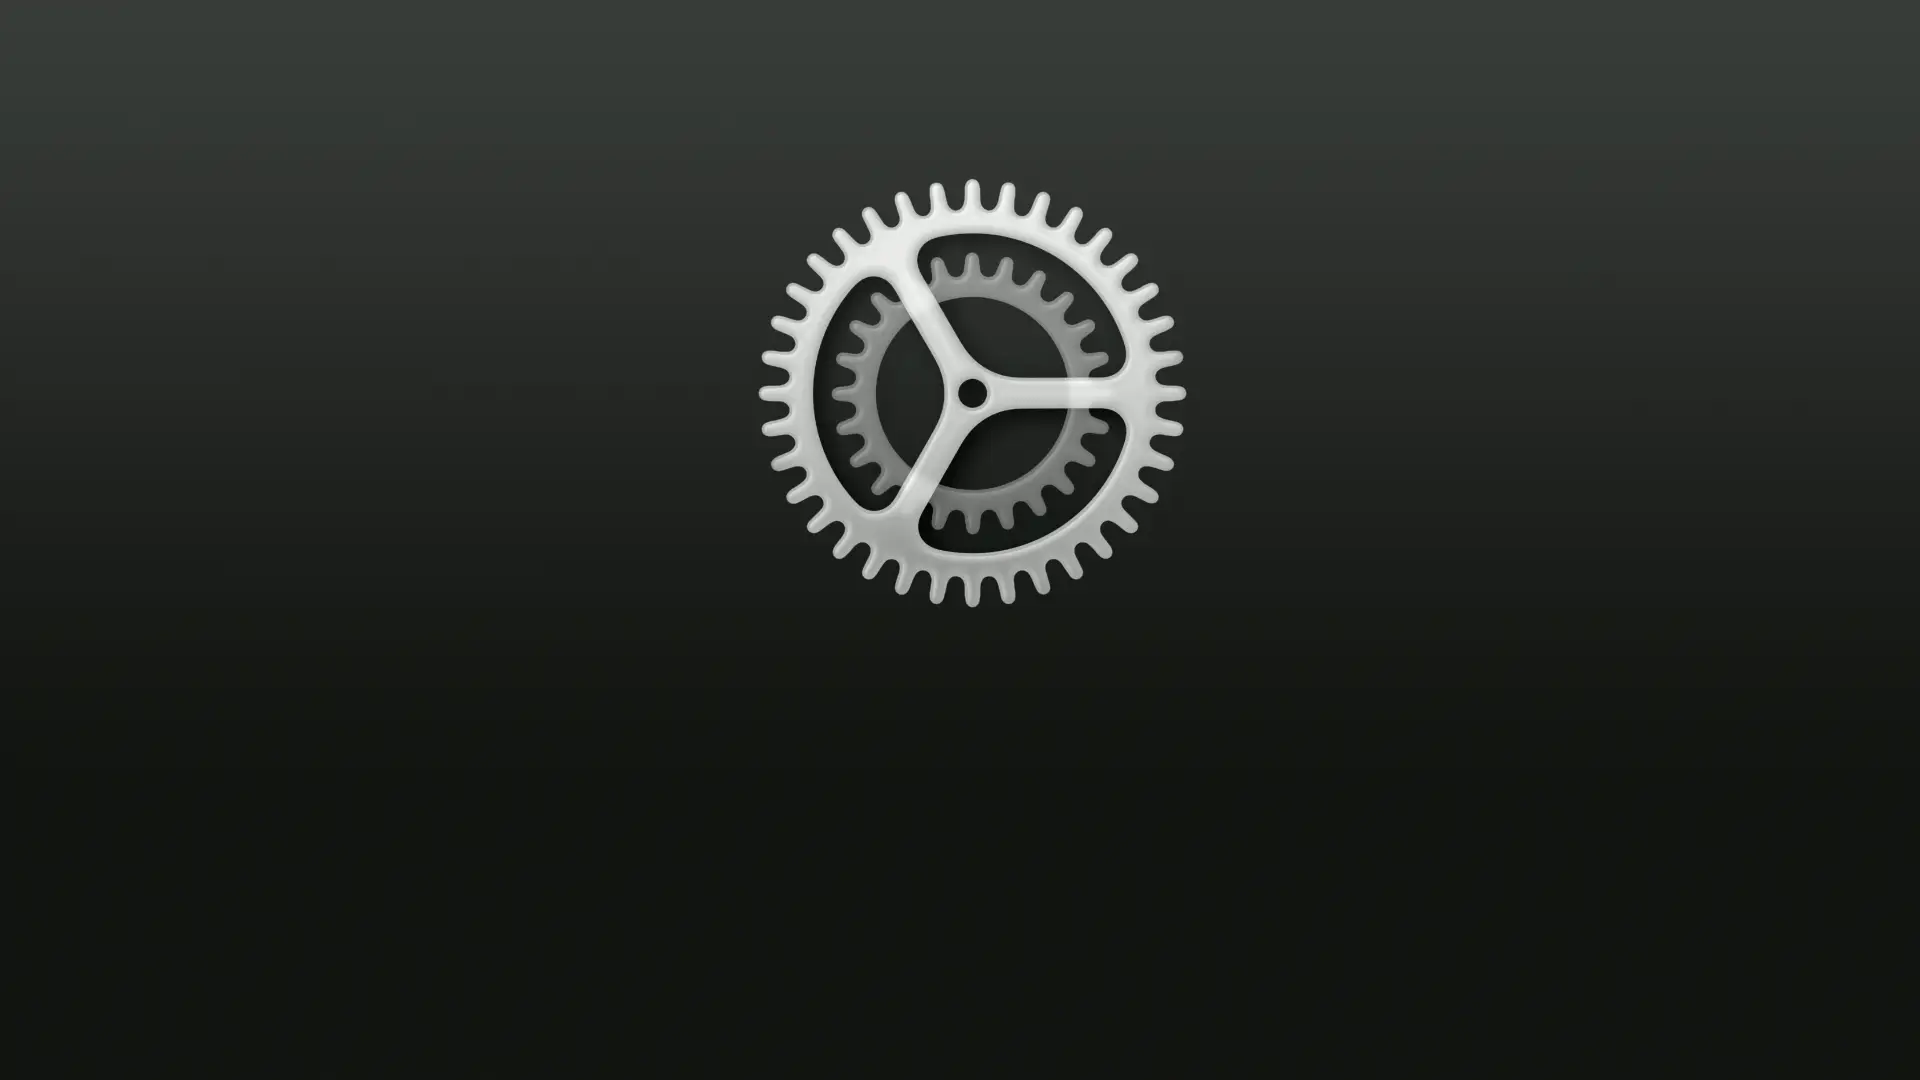
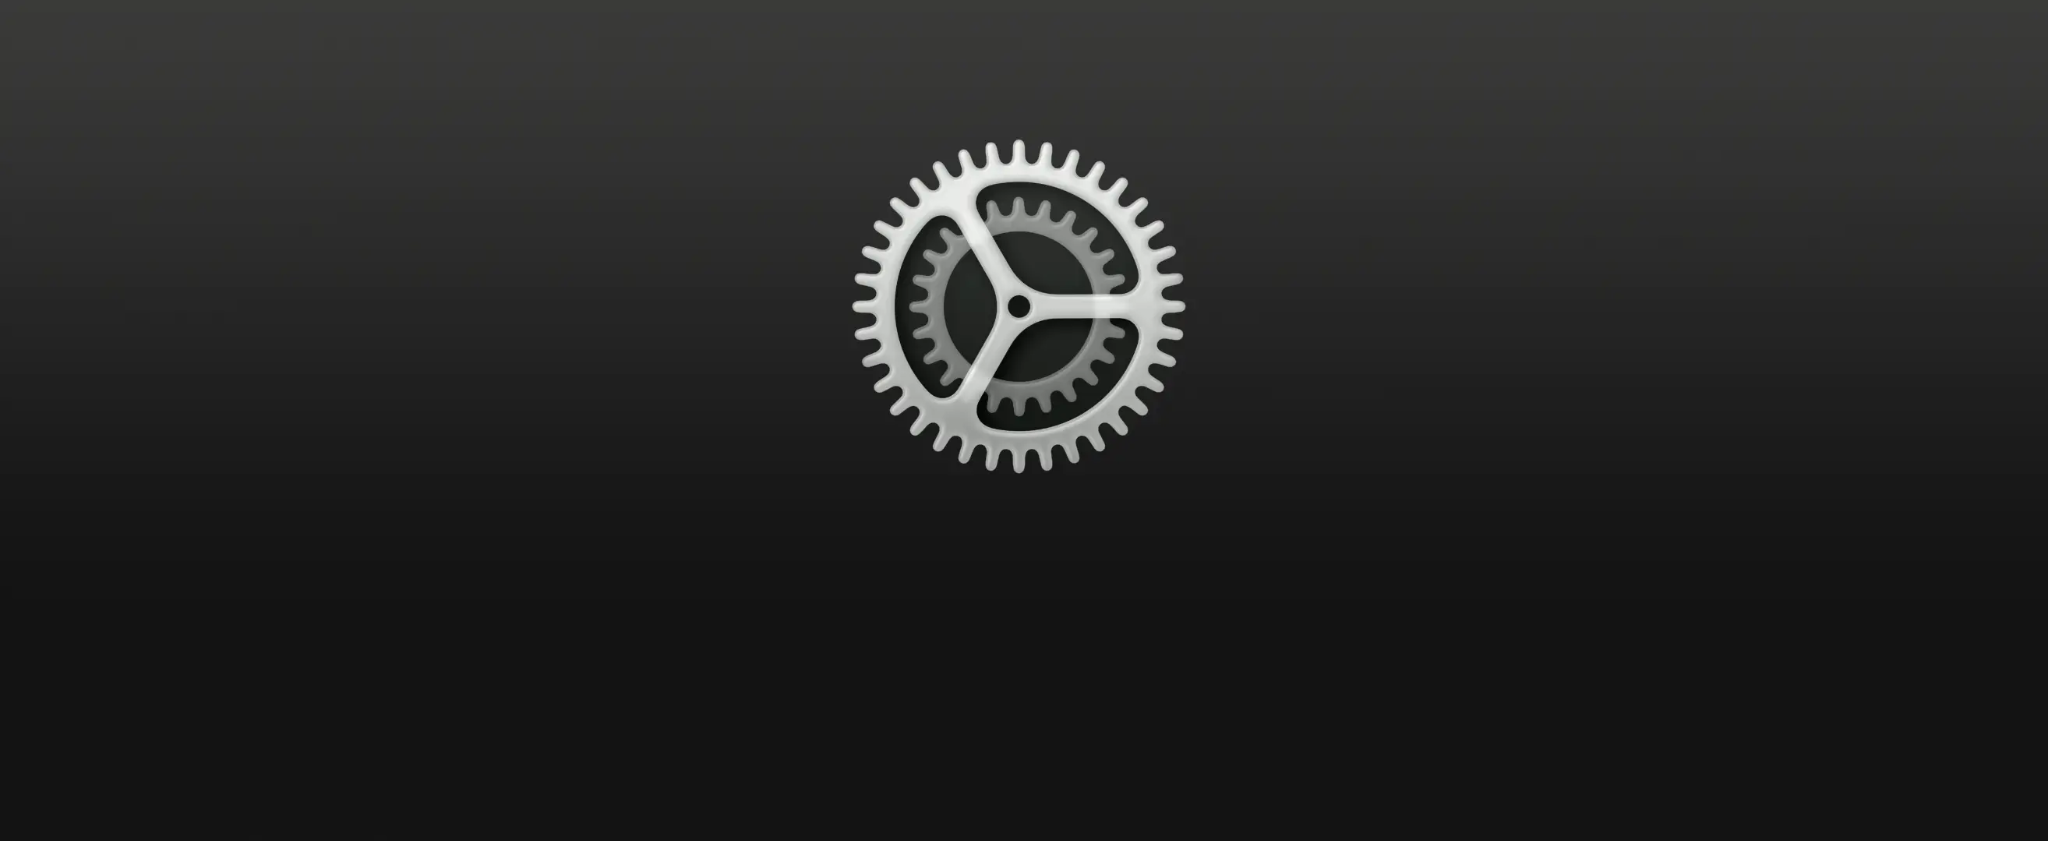
Use panoramic artwork for local Dock backgrounds

Changed region(s): [[0.375, 0.1546, 0.625, 0.5565]]

diff --git a/tests/test_home_renderers.py b/tests/test_home_renderers.py
@@ -28,15 +28,16 @@ public class HomeRenderHarness {
   b.tickNight(3500);near(b.night(),.15625f,"three-quarter transition");check(scene.pairs==pairs,"glass pair reused through transition");
   check(b.tickNight(4000)&&b.night()==0&&!b.tickNight(4001),"day transition settles and stops ticking");
   SystemClock.now=4100;b.show(null);b.tickFade(4900,true);check(scene.glass!=null&&b.profilePixels()==null,"gradient restores neutral glass");
-  Backdrop hero=new Backdrop(30);hero.image=new Bitmap(99);hero.lightImage=null;hero.nightImage=null;
+  Backdrop hero=new Backdrop(30);hero.image=new Bitmap(99);hero.image.width=1920;hero.image.height=1080;hero.lightImage=null;hero.nightImage=null;
   b.show(hero,false);c=new Canvas();b.draw(c,0);check(entries(c,"bitmap").size()==1&&entries(c,"bitmap").get(0).text.equals("99"),"Dock hero uses full photo instead of blurred backdrop");check(!b.tickFade(5000,true),"reduced motion skips photo crossfade");
-  Backdrop moving=new Backdrop(40);moving.image=new Bitmap(100);moving.lightImage=moving.nightImage=null;
+  Backdrop moving=new Backdrop(40);moving.image=new Bitmap(100);moving.image.width=1920;moving.image.height=1080;moving.lightImage=moving.nightImage=null;
   SystemClock.now=6000;b.show(moving,true,1);SystemClock.now=6200;c=new Canvas();b.draw(c,0);Canvas.Entry incoming=entries(c,"bitmap").get(1);float startCenter=(incoming.l+incoming.r)/2;check(startCenter>960&&incoming.l<=0&&incoming.r>=1920&&incoming.t<=0&&incoming.b>=1080,"rightward Dock scroll starts image to the right with all edges covered");
   b.show(moving,true,-1);SystemClock.now=6400;c=new Canvas();b.draw(c,0);incoming=entries(c,"bitmap").get(1);near((incoming.l+incoming.r)/2,976,"incoming photo moves left during original fade, enrichment does not restart it");check((incoming.l+incoming.r)/2<startCenter,"opposing movement approaches center");
-  Backdrop reverse=new Backdrop(50);reverse.image=new Bitmap(101);reverse.lightImage=reverse.nightImage=null;b.show(reverse,true,-1);c=new Canvas();b.draw(c,0);Canvas.Entry outgoing=entries(c,"bitmap").get(0);near((outgoing.l+outgoing.r)/2,976,"interrupted fade preserves outgoing image pose");
+  Backdrop reverse=new Backdrop(50);reverse.image=new Bitmap(101);reverse.image.width=1920;reverse.image.height=1080;reverse.lightImage=reverse.nightImage=null;b.show(reverse,true,-1);c=new Canvas();b.draw(c,0);Canvas.Entry outgoing=entries(c,"bitmap").get(0);near((outgoing.l+outgoing.r)/2,976,"interrupted fade preserves outgoing image pose");
   SystemClock.now=6600;c=new Canvas();b.draw(c,0);incoming=entries(c,"bitmap").get(1);check((incoming.l+incoming.r)/2<960&&incoming.l<=0&&incoming.r>=1920,"reverse Dock scroll starts image to the left without exposed edges");SystemClock.now=6800;c=new Canvas();b.draw(c,0);incoming=entries(c,"bitmap").get(1);near((incoming.l+incoming.r)/2,944,"reverse image moves right toward center");
   b.tickFade(7200,true);SystemClock.now=7200;c=new Canvas();b.draw(c,0);incoming=entries(c,"bitmap").get(0);near(incoming.l,0,"settled image restores original left edge");near(incoming.r,1920,"settled image restores full composition without persistent crop");
   SystemClock.now=7300;b.show(moving,false,1);c=new Canvas();b.draw(c,0);incoming=entries(c,"bitmap").get(0);check(incoming.l==0&&incoming.r==1920&&!b.tickFade(7400,true),"Reduced Motion skips both pan and fade");
+  Backdrop wide=new Backdrop(60);wide.image=new Bitmap(102);wide.image.width=2048;wide.image.height=841;wide.lightImage=wide.nightImage=null;SystemClock.now=8000;b.show(wide,true,1);SystemClock.now=8200;c=new Canvas();b.draw(c,0);Canvas.Entry panorama=entries(c,"bitmap").get(1);float panoramicWidth=panorama.r-panorama.l;near(panorama.t,0,"panoramic asset keeps full height without animated enlargement");near(panorama.b,1080,"panoramic full height preserved");check(panorama.l<0&&panorama.r>1920,"source side margins cover shifted viewport");SystemClock.now=8400;c=new Canvas();b.draw(c,0);panorama=entries(c,"bitmap").get(1);near(panorama.r-panorama.l,panoramicWidth,"panoramic scale remains constant during movement");b.tickFade(8800,true);SystemClock.now=8800;c=new Canvas();b.draw(c,0);panorama=entries(c,"bitmap").get(0);near(panorama.r-panorama.l,panoramicWidth,"panoramic scale remains constant after fade");near((panorama.l+panorama.r)/2,960,"panoramic source rests centered");
   b.show(null,false);
   int count=LinearGradient.allocations;b.resize(1280,720);b.draw(new Canvas(),0);check(LinearGradient.allocations==count+2,"gradients rebuilt for resize");
  }

diff --git a/tests/test_dock_provider.py b/tests/test_dock_provider.py
@@ -14,7 +14,7 @@ files={
 'android/os/Handler.java':'package android.os;public class Handler {public Handler(Looper l){}public void removeCallbacks(Runnable r){}public void postDelayed(Runnable r,long n){}public void post(Runnable r){r.run();}}',
 'android/graphics/Bitmap.java':'package android.graphics;public class Bitmap {public void recycle(){}}',
 'android/graphics/BitmapFactory.java':'package android.graphics;public class BitmapFactory {public static class Options {public boolean inJustDecodeBounds;public int outWidth,outHeight,inSampleSize;}public static Bitmap decodeStream(java.io.InputStream s){return new Bitmap();}public static Bitmap decodeFile(String f,Options o){return new Bitmap();}}',
-'io/tvos/Backdrop.java':'package io.tvos;class Backdrop {static Backdrop hero(android.graphics.Bitmap b){return new Backdrop();}}',
+'io/tvos/Backdrop.java':'package io.tvos;class Backdrop {static Backdrop hero(android.graphics.Bitmap b){return new Backdrop();}static Backdrop wideHero(android.graphics.Bitmap b){return new Backdrop();}}',
 'io/tvos/DockArtwork.java':'package io.tvos;class DockArtwork {String backdrop="",logo="";static void loadLogo(DockArtwork r,java.util.function.Consumer<java.net.HttpURLConnection> opened){}static DockArtwork lookup(String a,String b,String c,java.util.function.Consumer<java.net.HttpURLConnection> opened)throws java.io.IOException,org.json.JSONException{return new DockArtwork();}}',
 'io/tvos/PosterCache.java':'package io.tvos;class PosterCache {static String cacheName(String s){return Integer.toString(s.hashCode());}}',
 'io/tvos/WatchingSources.java':'package io.tvos;class WatchingSources {static String id(String p){return p;}}',

diff --git a/app/src/io/tvos/HomeBackground.java b/app/src/io/tvos/HomeBackground.java
@@ -232,10 +232,15 @@ final class HomeBackground {
     private void drawLightImage(Canvas c, Backdrop b, float alpha, float pan, float zoom) {
         if (b.image != null && b.lightImage == null) {
             if (alpha <= .004f) return;
-            // A small temporary crop covers the translated edges and settles back to the full composition.
-            float mx = screen.width() * .02f * zoom, my = screen.height() * .02f * zoom;
-            float dx = screen.width() * (32f / 1920) * pan;
-            imageBounds.set(screen.left - mx + dx, screen.top - my, screen.right + mx + dx, screen.bottom + my);
+            float cover = Math.max(screen.width() / b.image.getWidth(), screen.height() / b.image.getHeight());
+            float width = b.image.getWidth() * cover, height = b.image.getHeight() * cover;
+            float drift = screen.width() * (32f / 1920);
+            // Panoramic assets already have side margins: move them without changing their scale.
+            float scale = (width - screen.width()) / 2 >= drift ? 1 : 1 + .04f * zoom;
+            width *= scale; height *= scale;
+            float dx = drift * pan;
+            imageBounds.set(screen.centerX() - width / 2 + dx, screen.centerY() - height / 2,
+                    screen.centerX() + width / 2 + dx, screen.centerY() + height / 2);
             imagePaint.setAlpha(Math.round(255 * Math.min(1, alpha)));
             c.drawBitmap(b.image, null, imageBounds, imagePaint);
             return;

diff --git a/app/src/io/tvos/Backdrop.java b/app/src/io/tvos/Backdrop.java
@@ -47,6 +47,19 @@ final class Backdrop {
         return new Backdrop(photo.image, photo.frost, photo.glass, null, photo.glass, null, photo.glass);
     }
 
+    /** Keep a panoramic source intact; only the small glass textures use a centered viewport. */
+    static Backdrop wideHero(Bitmap source) {
+        Bitmap viewport = Bitmap.createBitmap(W, H, Bitmap.Config.ARGB_8888);
+        float scale = Math.max((float) W / source.getWidth(), (float) H / source.getHeight());
+        float width = source.getWidth() * scale, height = source.getHeight() * scale;
+        new Canvas(viewport).drawBitmap(source, null, new RectF((W - width) / 2, (H - height) / 2,
+                (W + width) / 2, (H + height) / 2), new Paint(Paint.FILTER_BITMAP_FLAG | Paint.DITHER_FLAG));
+        int[] frost = reduce(viewport, FW, FH, 3, 3);
+        int[] glass = reduce(viewport, GW, GH, 2, 2);
+        viewport.recycle();
+        return new Backdrop(gpu(source), frost, glass, null, glass, null, glass);
+    }
+
     static Backdrop make(Bitmap src, boolean forLight) { return make(src, forLight, true); }
 
     private static Backdrop make(Bitmap src, boolean forLight, boolean scrims) {

diff --git a/app/src/io/tvos/DockBackdrop.java b/app/src/io/tvos/DockBackdrop.java
@@ -111,7 +111,7 @@ final class DockBackdrop {
                         Bitmap image = BitmapFactory.decodeStream(input);
                         if (image == null) throw new IOException("Unreadable bundled backdrop");
                         if (token != generation) { image.recycle(); return; }
-                        publish(pkg, token, new Artwork(Backdrop.hero(image), "", null));
+                        publish(pkg, token, new Artwork(Backdrop.wideHero(image), "", null));
                     }
                     return;
                 }

diff --git a/docs/WATCHING.md b/docs/WATCHING.md
@@ -50,4 +50,4 @@ When every poster category is disabled, focusing a Dock app for 450 ms loads a s
 
 Queries, downloads and decoding run on a single worker. Focus changes invalidate stale results and disconnect their active image/TMDB connection off the UI thread, so the next service does not wait for the previous socket timeout. Landscape lookup and logo lookup are separate: a matched background can appear before the logo endpoint completes. A sixteen-entry metadata LRU retains only URLs and identifiers, avoiding repeated searches when revisiting an app; provisional photo cache entries still retry unfinished caption lookup. Images are sampled to at most 1920 × 1080 before composing the background; only the current image and transition are retained, with six downloaded files (16 MiB each maximum) on disk. Reduced Motion skips the crossfade. Device memory and frame timing still need measurement on TVs; image quality depends on what each app publishes.
 
-Dock navigation gives incoming banners a subtle 32-pixel opposing drift during the existing 800 ms fade. A temporary four-percent enlargement covers all edges and settles to the original full composition. Caption enrichment does not restart motion; interrupted fades retain the outgoing image position. Reduced Motion disables both drift and fade.
+Dock navigation gives incoming banners a subtle 32-pixel opposing drift during the existing 800 ms fade. Panoramic bundled assets retain their full source width and use the side margins for motion at a constant scale. Ordinary 16:9 movie artwork uses a temporary four-percent enlargement to cover all edges, then settles to its original full composition. Caption enrichment does not restart motion; interrupted fades retain the outgoing image position. Reduced Motion disables both drift and fade.
